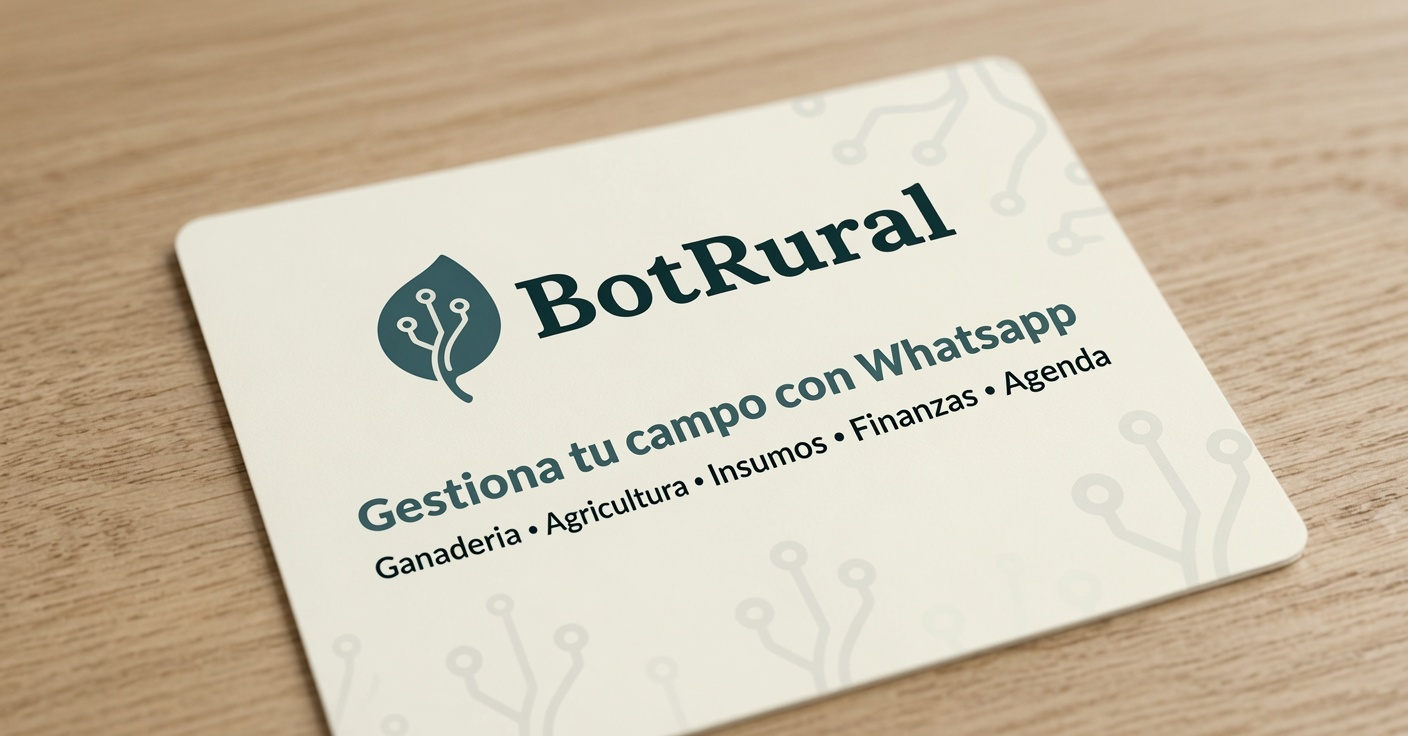
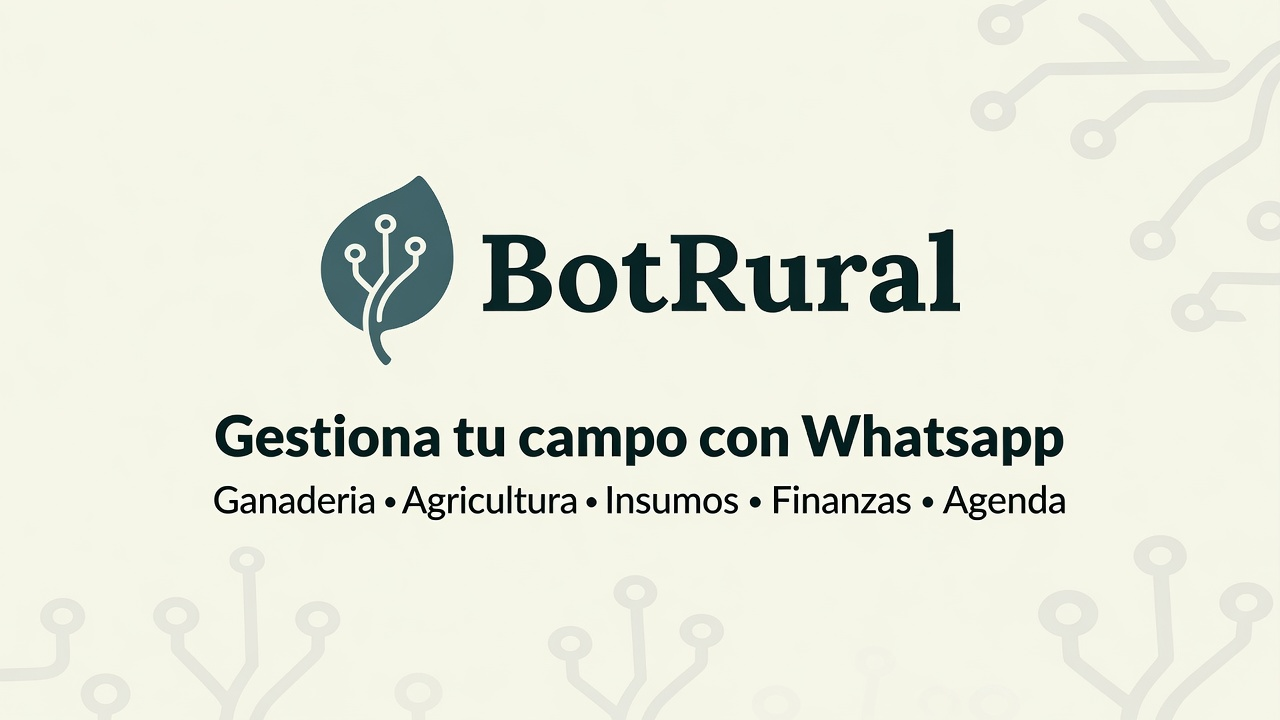
feat(og): nueva imagen 1280x720 (nuevoparalink2)

diff --git a/app/layout.tsx b/app/layout.tsx
@@ -119,8 +119,8 @@ export const metadata: Metadata = {
     images: [
       {
         url: "/og-image.jpg",
-        width: 1408,
-        height: 736,
+        width: 1280,
+        height: 720,
         alt: "BotRural - Gestión agropecuaria por WhatsApp",
         type: "image/jpeg",
       },